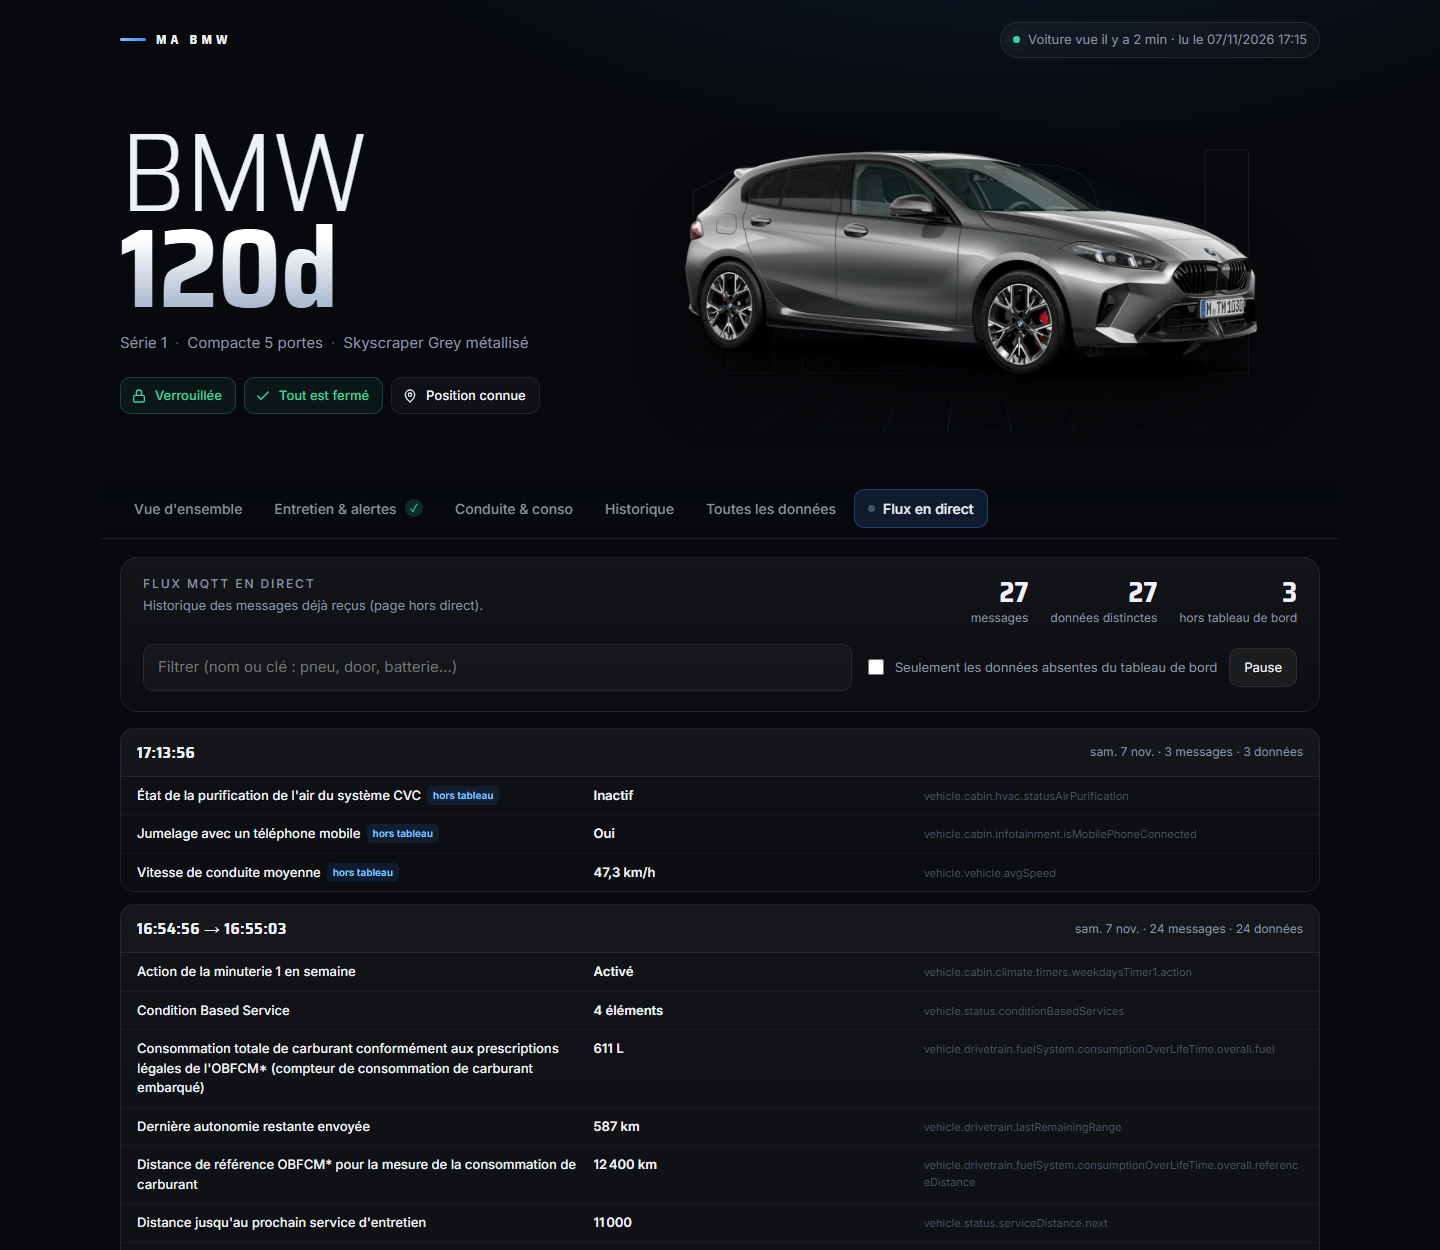
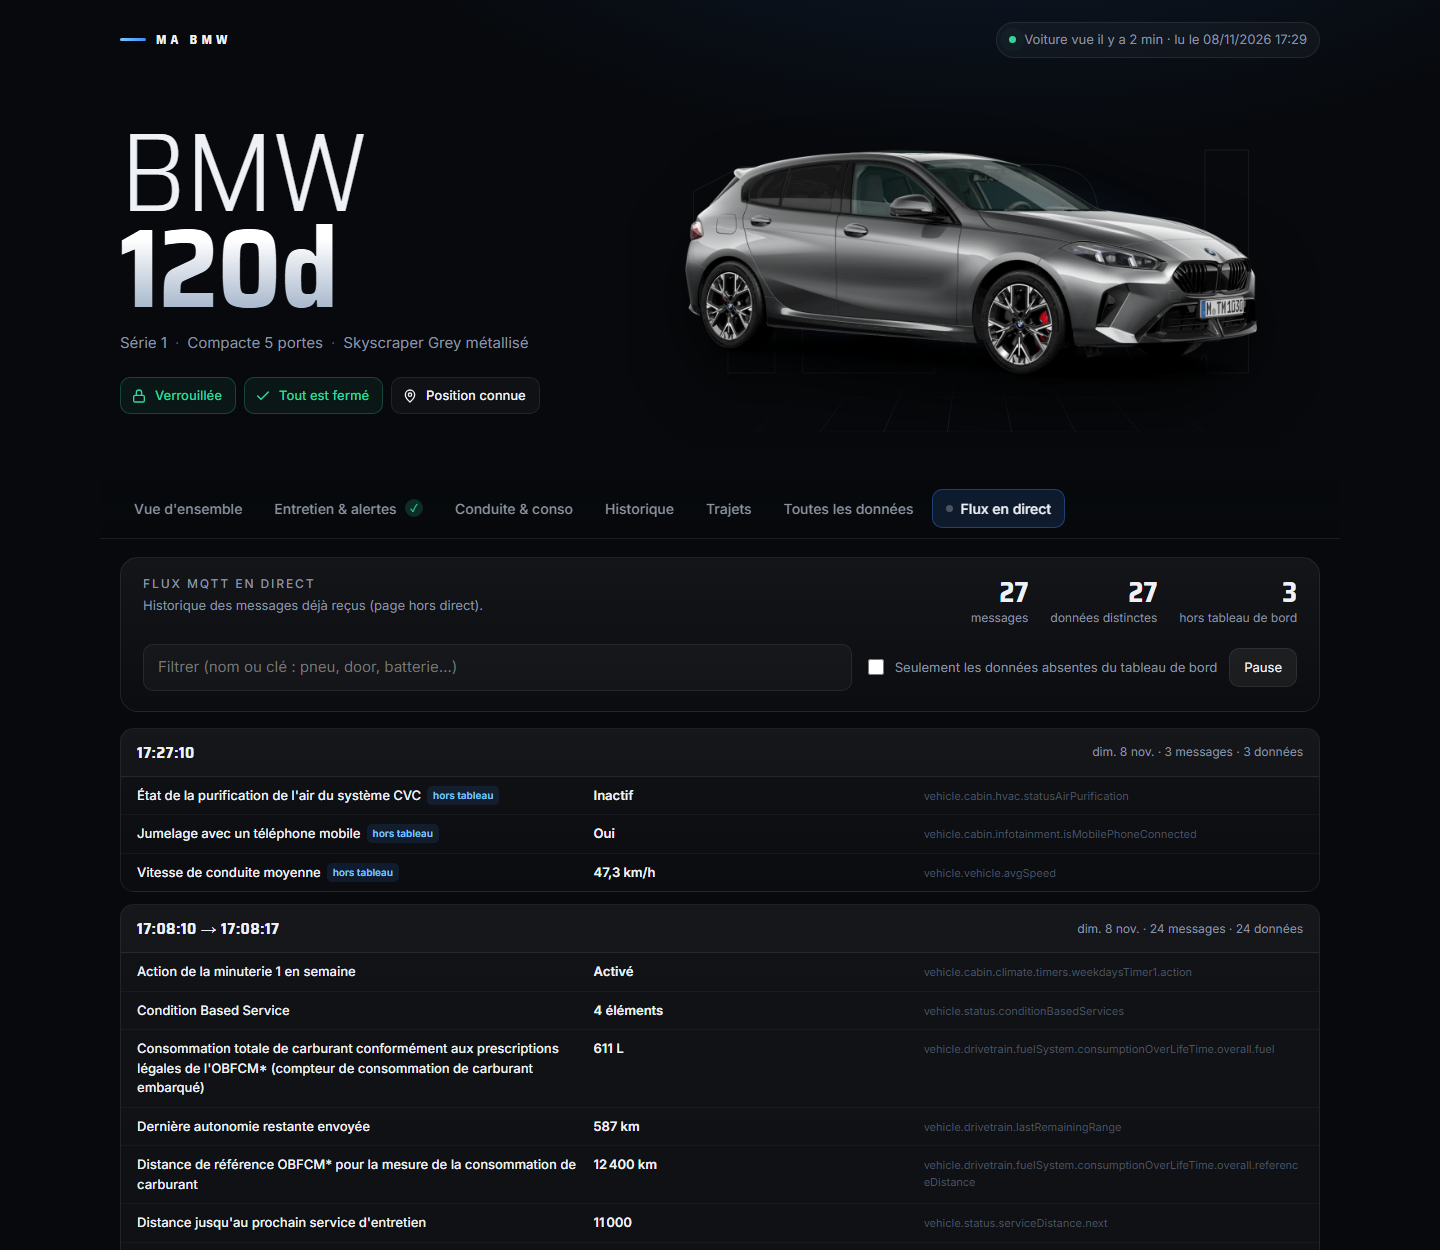
Onglet Trajets : les trajets reconstitués sur une carte
- build_trips() découpe l'historique des positions en trajets : la
  voiture envoie sa position environ toutes les 3 minutes en roulant ;
  un trajet se termine après 5 minutes sans mouvement ; km lus au
  compteur ; manœuvres de moins de 300 m ignorées.
- Nouvel onglet : liste par jour (horaires, km, durée) et carte Leaflet
  des tracés ; un clic met un trajet en évidence avec départ et arrivée.
- Leaflet chargé une seule fois pour les deux cartes de la page.
- Démo : trajets fictifs autour de Munich, nouvelle capture trajets.png.
- README : onglet, capture, description.

diff --git a/dashboard_template.html b/dashboard_template.html
@@ -159,6 +159,24 @@ body {
   background: linear-gradient(180deg, rgba(7,9,12,.85), transparent 28%, transparent 70%, rgba(7,9,12,.9)); }
 .map .lmap { position: absolute; inset: 0; z-index: 0; background: #0b0f15; font: inherit; }
 .map .leaflet-top.leaflet-right { top: 50%; transform: translateY(-50%); }
+/* onglet Trajets */
+.trips-card { display: grid; grid-template-columns: 320px 1fr; gap: 18px; padding: 18px; }
+.trips-list { display: flex; flex-direction: column; min-height: 0; max-height: 620px; }
+#tripsList { overflow: auto; margin: 0 -6px; padding: 0 6px; }
+.trips-map { min-height: 620px; border-radius: 12px; overflow: hidden; }
+.trips-map::after { display: none; }
+.trips-map .leaflet-top.leaflet-right { top: 0; transform: none; }
+.trip-day { color: var(--muted); font-size: 11px; font-weight: 600; letter-spacing: .12em; text-transform: uppercase; margin: 14px 0 4px; }
+.trip { display: grid; grid-template-columns: 1fr auto; gap: 2px 10px; width: 100%; text-align: left; padding: 9px 10px; margin: 2px 0;
+  border: 1px solid transparent; border-radius: 10px; background: none; color: var(--text); font: inherit; font-size: 13.5px; cursor: pointer; }
+.trip:hover { background: rgba(255,255,255,.04); }
+.trip[aria-selected="true"] { background: rgba(61,139,255,.12); border-color: rgba(61,139,255,.45); }
+.trip .km { font-weight: 600; }
+.trip .sub { grid-column: 1 / -1; color: var(--muted); font-size: 12px; }
+.trip-end { width: 14px; height: 14px; box-sizing: border-box; border-radius: 50%; border: 3px solid #fff; }
+.trip-end.a { background: var(--ok); } .trip-end.b { background: var(--bad); }
+.trips-empty { position: absolute; inset: 0; display: grid; place-items: center; padding: 24px; text-align: center; color: var(--muted); }
+@media (max-width: 900px) { .trips-card { grid-template-columns: 1fr; } .trips-list { max-height: 340px; } .trips-map { min-height: 420px; } }
 .map .leaflet-bar { border: 1px solid rgba(255,255,255,.12) !important; border-radius: 10px; overflow: hidden; box-shadow: none !important; }
 .map .leaflet-bar a { background: rgba(14,18,24,.85); color: #dfe6ef; border-bottom-color: rgba(255,255,255,.1); }
 .map .leaflet-bar a:hover { background: rgba(30,38,50,.95); color: #fff; }
@@ -386,6 +404,7 @@ footer { color: var(--faint); font-size: 12px; text-align: center; padding: 34px
     <a href="#entretien" data-p="entretien">Entretien &amp; alertes <span class="badge" id="alertBadge" hidden></span></a>
     <a href="#conduite" data-p="conduite">Conduite &amp; conso</a>
     <a href="#historique" data-p="historique">Historique</a>
+    <a href="#trajets" data-p="trajets">Trajets</a>
     <a href="#donnees" data-p="donnees">Toutes les données</a>
     <a href="#flux" data-p="flux"><span class="live-dot" id="fluxDot"></span>Flux en direct <span class="badge" id="fluxBadge" hidden></span></a>
   </nav>
@@ -516,6 +535,17 @@ footer { color: var(--faint); font-size: 12px; text-align: center; padding: 34px
       </div>
     </article></div>
     <div class="grid g-2" id="histoGrid"></div>
+  </section>
+
+  <section class="panel" id="p-trajets">
+    <div class="grid"><article class="card trips-card">
+      <div class="trips-list">
+        <h2 style="margin-bottom:6px">Trajets</h2>
+        <div class="hint" id="tripsHint" style="margin:0 0 10px"></div>
+        <div id="tripsList" role="listbox" aria-label="Trajets"></div>
+      </div>
+      <div class="map trips-map" id="tripsMap"></div>
+    </article></div>
   </section>
 
   <section class="panel" id="p-donnees">
@@ -829,6 +859,21 @@ function countUp(el, to, dur) {
   ageTag($("bodyAge"), "vehicle.cabin.door.lock.status");
 })();
 
+/* Leaflet, chargé une seule fois pour toutes les cartes de la page */
+let leafletPromise = null;
+function loadLeaflet() {
+  return leafletPromise || (leafletPromise = new Promise((ok, ko) => {
+    const css = document.createElement("link");
+    css.rel = "stylesheet"; css.href = "https://unpkg.com/leaflet@1.9.4/dist/leaflet.css";
+    css.integrity = "sha256-p4NxAoJBhIIN+hmNHrzRCf9tD/miZyoHS5obTRR9BMY="; css.crossOrigin = "";
+    const js = document.createElement("script");
+    js.src = "https://unpkg.com/leaflet@1.9.4/dist/leaflet.js";
+    js.integrity = "sha256-20nQCchB9co0qIjJZRGuk2/Z9VM+kNiyxNV1lvTlZBo="; js.crossOrigin = "";
+    js.onload = () => ok(window.L); js.onerror = ko;
+    document.head.append(css, js);
+  }));
+}
+
 /* ---------------- carte ---------------- */
 (() => {
   const lat = num(LAT), lon = num(LON);
@@ -867,17 +912,7 @@ function countUp(el, to, dur) {
     new ResizeObserver(() => map.invalidateSize()).observe($("map"));
   };
   if (location.protocol === "file:") { fallback(); }
-  else {
-  const css = document.createElement("link");
-  css.rel = "stylesheet"; css.href = "https://unpkg.com/leaflet@1.9.4/dist/leaflet.css";
-  css.integrity = "sha256-p4NxAoJBhIIN+hmNHrzRCf9tD/miZyoHS5obTRR9BMY="; css.crossOrigin = "";
-  const js = document.createElement("script");
-  js.src = "https://unpkg.com/leaflet@1.9.4/dist/leaflet.js";
-  js.integrity = "sha256-20nQCchB9co0qIjJZRGuk2/Z9VM+kNiyxNV1lvTlZBo="; js.crossOrigin = "";
-  js.onload = () => { try { draw(); } catch (e) { fallback(); } };
-  js.onerror = fallback;
-  document.head.append(css, js);
-  }
+  else loadLeaflet().then(() => { try { draw(); } catch (e) { fallback(); } }, fallback);
   $("coords").textContent = `${lat.toFixed(5)}° N · ${lon.toFixed(5)}° E`;
   $("osmLink").href = `https://www.openstreetmap.org/?mlat=${lat}&mlon=${lon}#map=17/${lat}/${lon}`;
   $("gmapsLink").href = `https://www.google.com/maps/dir/?api=1&destination=${lat},${lon}`;
@@ -1695,9 +1730,77 @@ function fluxValue(k, e) {
   let rt; addEventListener("resize", () => { clearTimeout(rt); rt = setTimeout(drawAll, 120); });
 })();
 
+/* ================= trajets ================= */
+(() => {
+  const trips = (DATA.trips || []).slice().reverse();  // le plus récent en premier
+  const list = $("tripsList"), box = $("tripsMap");
+  const hour = d => d.toLocaleTimeString("fr-FR", { hour: "2-digit", minute: "2-digit" });
+  const dur = (a, b) => { const m = Math.max(1, Math.round((b - a) / 60000)); return m < 60 ? `${m} min` : `${Math.floor(m / 60)} h ${String(m % 60).padStart(2, "0")}`; };
+  trips.forEach(t => { t.a = new Date(t.start); t.b = new Date(t.end); });
+  if (!trips.length) {
+    $("tripsHint").textContent = "Aucun trajet enregistré pour l'instant.";
+    box.innerHTML = '<div class="trips-empty">Les trajets apparaîtront ici dès que la voiture aura roulé avec le flux en direct actif (commande stream).</div>';
+    window.drawTrips = () => {};
+    return;
+  }
+  const total = trips.reduce((s, t) => s + (t.km || 0), 0);
+  const first = trips[trips.length - 1].a;
+  $("tripsHint").textContent = `${fmt(trips.length)} trajet${trips.length > 1 ? "s" : ""} · ${fmt(total)} km depuis le ${first.toLocaleDateString("fr-FR", { day: "numeric", month: "long" })}. Tracé approximatif : la voiture envoie sa position environ toutes les 3 minutes.`;
+  let html = `<button type="button" class="trip" role="option" data-i="-1" aria-selected="true"><span>Tous les trajets</span><span class="km">${fmt(total)} km</span></button>`, day = "";
+  trips.forEach((t, i) => {
+    const d = t.a.toLocaleDateString("fr-FR", { weekday: "long", day: "numeric", month: "long" });
+    if (d !== day) { html += `<div class="trip-day">${esc(d)}</div>`; day = d; }
+    html += `<button type="button" class="trip" role="option" data-i="${i}" aria-selected="false"><span>${hour(t.a)} → ${hour(t.b)}</span><span class="km">${fmt(t.km)} km</span><span class="sub">${dur(t.a, t.b)}</span></button>`;
+  });
+  list.innerHTML = html;
+
+  let map = null, lines = [], ends = null, sel = -1;
+  const select = i => {
+    sel = i;
+    list.querySelectorAll(".trip").forEach(b => b.setAttribute("aria-selected", String(+b.dataset.i === i)));
+    if (!map) return;
+    const L = window.L;
+    lines.forEach((l, j) => l.setStyle(i < 0 ? { color: "#3d8bff", opacity: .75, weight: 3 }
+      : j === i ? { color: "#3d8bff", opacity: 1, weight: 5 } : { color: "#8a94a3", opacity: .25, weight: 2 }));
+    if (ends) { ends.remove(); ends = null; }
+    if (i >= 0) {
+      lines[i].bringToFront();
+      const p = trips[i].pts;
+      ends = L.layerGroup([
+        L.marker(p[0], { icon: L.divIcon({ className: "trip-end a", iconSize: [14, 14] }), title: `Départ ${hour(trips[i].a)}`, keyboard: false }),
+        L.marker(p[p.length - 1], { icon: L.divIcon({ className: "trip-end b", iconSize: [14, 14] }), title: `Arrivée ${hour(trips[i].b)}`, keyboard: false }),
+      ]).addTo(map);
+      map.fitBounds(lines[i].getBounds(), { padding: [40, 40], maxZoom: 16 });
+    } else map.fitBounds(L.featureGroup(lines).getBounds(), { padding: [30, 30], maxZoom: 15 });
+  };
+  list.addEventListener("click", e => { const b = e.target.closest(".trip"); if (b) select(+b.dataset.i); });
+
+  const draw = L => {
+    box.innerHTML = '<div class="lmap" role="region" aria-label="Carte des trajets"></div>';
+    map = L.map(box.firstChild, { zoomControl: false, attributionControl: false });
+    L.tileLayer("https://tile.openstreetmap.org/{z}/{x}/{y}.png", { maxZoom: 19 }).addTo(map);
+    L.control.zoom({ position: "topright", zoomInTitle: "Zoom avant", zoomOutTitle: "Zoom arrière" }).addTo(map);
+    L.control.attribution({ position: "bottomright", prefix: false })
+      .addAttribution('© <a href="https://www.openstreetmap.org/copyright" target="_blank" rel="noopener">OpenStreetMap</a>').addTo(map);
+    lines = trips.map((t, i) => L.polyline(t.pts, { lineJoin: "round" }).on("click", () => select(i)).addTo(map));
+    new ResizeObserver(() => map.invalidateSize()).observe(box);
+    select(sel);
+  };
+  let started = false;
+  window.drawTrips = () => {  // la carte n'est créée qu'à l'ouverture de l'onglet (elle doit être visible)
+    if (started) { if (map) map.invalidateSize(); return; }
+    started = true;
+    if (location.protocol === "file:") {
+      box.innerHTML = '<div class="trips-empty">La carte des trajets s\'affiche sur la page servie par la commande stream (OpenStreetMap refuse ses fonds de carte à une page ouverte comme fichier).</div>';
+      return;
+    }
+    loadLeaflet().then(draw, () => { box.innerHTML = '<div class="trips-empty">Impossible de charger la carte (pas d\'accès à Internet ?).</div>'; });
+  };
+})();
+
 /* ================= navigation par onglets ================= */
 (() => {
-  const ids = ["apercu", "entretien", "conduite", "historique", "donnees", "flux"];
+  const ids = ["apercu", "entretien", "conduite", "historique", "trajets", "donnees", "flux"];
   let current = null;
   const show = () => {
     const id = ids.includes(location.hash.slice(1)) ? location.hash.slice(1) : "apercu";
@@ -1711,6 +1814,7 @@ function fluxValue(k, e) {
     if (id === "apercu" && current && current !== "apercu") replayOverview();
     if (id === "flux") { const b = $("fluxBadge"); b.hidden = true; b.textContent = ""; window.__fluxUnseen = 0; }
     if (id === "historique" && window.drawHistory) window.drawHistory();
+    if (id === "trajets" && window.drawTrips) window.drawTrips();
     current = id;
   };
   window.addEventListener("hashchange", () => { show(); const t = $("tabs"); if (t.getBoundingClientRect().top < 0 || scrollY > t.offsetTop) scrollTo({ top: t.offsetTop, behavior: "smooth" }); });

diff --git a/bmw_cardata.py b/bmw_cardata.py
@@ -19,8 +19,10 @@ Une commande "status" coûte 1 appel (jusqu'à 3 quand la liste des données cha
 """
 
 import base64
+import bisect
 import hashlib
 import json
+import math
 import os
 import re
 import secrets
@@ -680,6 +682,81 @@ def save_history(data, source, received=None):
         print(f"Base {HISTORY_DB.name} : écriture impossible ({e}).")
 
 
+TRIPS_MAX = 300           # trajets gardés dans la page (les plus récents)
+TRIP_STOP_S = 300         # immobile plus de 5 min : le trajet est terminé
+TRIP_MOVE_KM = 0.1        # déplacement minimal entre deux positions pour compter comme « roule »
+
+
+def _km(a, b):
+    """Distance approchée (km) entre deux points (lat, lon) proches."""
+    x = math.radians(b[1] - a[1]) * math.cos(math.radians((a[0] + b[0]) / 2))
+    y = math.radians(b[0] - a[0])
+    return 6371 * math.hypot(x, y)
+
+
+def build_trips(telematic):
+    """Découpe l'historique des positions en trajets. Pendant la conduite, la voiture envoie sa
+    position environ toutes les 3 minutes : un trajet est donc une suite de points reliés en ligne
+    droite, pas le tracé exact de la route. Renvoie [{start, end, km, pts: [[lat, lon], ...]}]."""
+    lat_k = "vehicle.cabin.infotainment.navigation.currentLocation.latitude"
+    lon_k = "vehicle.cabin.infotainment.navigation.currentLocation.longitude"
+    odo_k = "vehicle.vehicle.travelledDistance"
+    series = {lat_k: {}, lon_k: {}, odo_k: {}}
+    try:
+        with closing(open_db()) as db:
+            for k, ts, t, v in db.execute("SELECT cle, horodatage, t, valeur FROM mesures WHERE cle IN (?, ?, ?)",
+                                          (lat_k, lon_k, odo_k)):
+                if isinstance(v, (int, float)):
+                    series[k][t] = v
+    except sqlite3.Error as e:
+        print(f"Base {HISTORY_DB.name} : lecture impossible ({e}).")
+        return []
+    for k in series:
+        e = (telematic or {}).get(k)
+        dt = parse_time(e.get("timestamp")) if isinstance(e, dict) else None
+        if dt:
+            try:
+                series[k][dt.timestamp()] = float(e.get("value"))
+            except (TypeError, ValueError):
+                pass
+    odo = sorted(series[odo_k].items())
+    odo_t = [t for t, _ in odo]
+
+    def odo_at(t):  # dernier kilométrage connu à l'instant t
+        i = bisect.bisect_right(odo_t, t)
+        return odo[i - 1][1] if i else None
+
+    pts = [(t, series[lat_k][t], series[lon_k][t]) for t in sorted(set(series[lat_k]) & set(series[lon_k]))
+           if -90 <= series[lat_k][t] <= 90 and -180 <= series[lon_k][t] <= 180
+           and (series[lat_k][t], series[lon_k][t]) != (0, 0)]
+    trips, cur, last_move = [], None, None
+
+    def close():
+        if cur and (cur["dist"] >= 0.3 or (cur["km1"] or 0) - (cur["km0"] or 0) >= 1):
+            trips.append(cur)
+
+    for i in range(1, len(pts)):
+        (t0, a0, b0), (t1, a1, b1) = pts[i - 1], pts[i]
+        o0, o1 = odo_at(t0), odo_at(t1)
+        moved = _km((a0, b0), (a1, b1)) > TRIP_MOVE_KM or (o0 is not None and o1 is not None and o1 > o0)
+        if cur and last_move is not None and t1 - last_move > TRIP_STOP_S and (not moved or t1 - last_move > 1800):
+            close()
+            cur = None
+        if moved:
+            if cur is None:
+                cur = {"t0": t0, "pts": [(a0, b0)], "dist": 0.0, "km0": o0}
+            cur["dist"] += _km(cur["pts"][-1], (a1, b1))
+            cur["pts"].append((a1, b1))
+            cur["t1"], cur["km1"] = t1, o1
+            last_move = t1
+    close()
+    iso = lambda t: datetime.fromtimestamp(t, timezone.utc).isoformat()
+    out = [{"start": iso(tr["t0"]), "end": iso(tr["t1"]),
+            "km": round(tr["km1"] - tr["km0"]) if tr["km0"] is not None and tr["km1"] is not None else round(tr["dist"]),
+            "pts": [[round(a, 5), round(b, 5)] for a, b in tr["pts"]]} for tr in trips]
+    return out[-TRIPS_MAX:]
+
+
 REFUEL_MIN_RISE = 10  # hausse du niveau (points de %) qui signale un plein
 
 
@@ -810,6 +887,7 @@ def render_dashboard(vin, telematic, fetched_at, fetched_iso=None, live=False, p
         "catalogue": {k: v.get("name") for k, v in (load_json(CATALOGUE_FILE, {}) or {}).items()},
         "streamLog": list(LiveState.log)[-STREAM_LOG_IN_PAGE:] if live else read_stream_history(),
         "history": build_history(telematic),
+        "trips": build_trips(telematic),
         "sinceRefuel": since_refuel(telematic, (load_json(CONFIG_FILE, {}) or {}).get("tank_liters")),
         "live": live,
     }

diff --git a/outils/captures_demo.py b/outils/captures_demo.py
@@ -15,7 +15,7 @@ PROJ = Path(__file__).resolve().parent.parent
 OUT = PROJ / "demo"
 CAPTURES = PROJ / "docs" / "captures"
 # onglet → hauteur de la capture (largeur 1440 px)
-SHOTS = {"apercu": 845, "entretien": 1180, "conduite": 1100, "historique": 1960, "flux": 1250}
+SHOTS = {"apercu": 845, "entretien": 1180, "conduite": 1100, "historique": 1960, "trajets": 1240, "flux": 1250}
 EDGE = [Path(r"C:\Program Files (x86)\Microsoft\Edge\Application\msedge.exe"),
         Path(r"C:\Program Files\Microsoft\Edge\Application\msedge.exe")]
 
@@ -137,6 +137,32 @@ def build_page():
                  "vehicle.cabin.hvac.statusAirPurification": e("INACTIVE")}
         for k, v in extra.items():
             f.write(json.dumps({"received": (now - timedelta(minutes=2)).isoformat(), "data": {k: v}}) + "\n")
+
+    # ---- trajets fictifs autour de Munich (onglet Trajets), un point toutes les 3 min environ ----
+    home = (48.17680, 11.55600)
+    places = [(48.13740, 11.57550), (48.15050, 11.59170), (48.21800, 11.62400), (48.13300, 11.50400),
+              (48.10600, 11.55900), (48.24900, 11.65200), (48.16350, 11.49500)]
+    trips, day = [], now - timedelta(days=9)
+    for n in range(14):
+        dest = places[n % len(places)]
+        start = (day + timedelta(days=n // 2 + 1)).replace(hour=8 if n % 2 == 0 else 17, minute=random.randint(0, 50))
+        a, b_ = (home, dest) if n % 2 == 0 else (dest, home)
+        # chemin sinueux : points intermédiaires décalés de part et d'autre de la ligne droite
+        dx, dy = b_[0] - a[0], b_[1] - a[1]
+        path, pts = [a], []
+        for f in (.2, .4, .6, .8):
+            off = random.uniform(-.12, .12)
+            path.append((a[0] + dx * f - dy * off * .66, a[1] + dy * f + dx * off * 1.5))
+        path.append(b_)
+        for p, q in zip(path, path[1:]):
+            steps = max(1, int(b._km(p, q) / 1.8))
+            pts += [(p[0] + (q[0] - p[0]) * s / steps + random.uniform(-.0008, .0008),
+                     p[1] + (q[1] - p[1]) * s / steps + random.uniform(-.0008, .0008)) for s in range(steps)]
+        pts += [b_]
+        km = sum(b._km(p, q) for p, q in zip(pts, pts[1:])) * 1.15
+        trips.append({"start": iso(start), "end": iso(start + timedelta(minutes=3 * len(pts))), "km": round(km),
+                      "pts": [[round(x, 5), round(y, 5)] for x, y in pts]})
+    b.build_trips = lambda telematic: trips
 
     page = OUT / "demo.html"
     b.render_dashboard("WBA00000000DEMO00", T, now.astimezone().strftime("%d/%m/%Y %H:%M"), iso(now), path=page)

diff --git a/README.md b/README.md
@@ -80,7 +80,7 @@ Chaque valeur reçue est rangée dans `historique.db`, que vous pouvez interroge
 <td width="50%" valign="top">
 
 ### 🖥 Tableau de bord élégant
-Thème sombre, jauge animée, compteur à rouleaux, vue de dessus de la voiture, carte, graphiques d'historique, six onglets. Fonctionne aussi sur téléphone.
+Thème sombre, jauge animée, compteur à rouleaux, vue de dessus de la voiture, carte, graphiques d'historique, carte des trajets, sept onglets. Fonctionne aussi sur téléphone.
 
 ### 🔎 Flux brut consultable
 Un onglet affiche **chaque message MQTT reçu**, avec les noms officiels BMW en français, même pour les données que le tableau de bord n'affiche pas.
@@ -112,6 +112,12 @@ Un seul script Python, sans dépendance externe pour l'usage courant. Seul le st
 **Historique**
 
 <img src="docs/captures/historique.png" alt="Onglet Historique : graphiques du carburant, de l'autonomie, des kilomètres par jour, du kilométrage, des pneus et de la batterie 12 V" width="100%">
+
+<br><br>
+
+**Trajets**
+
+<img src="docs/captures/trajets.png" alt="Onglet Trajets : liste des trajets par jour et carte de leurs tracés" width="100%">
 
 <br><br>
 
@@ -302,6 +308,7 @@ Avec `-AvecDonnees`, les données déjà présentes sur le serveur sont mises de
 | **Entretien & alertes** | Voyants Check Control, entretien détaillé (huile, liquide de frein…), échéances, batteries, alarme, mémoire des défauts |
 | **Conduite & conso** | Consommation moyenne réelle (compteur officiel OBFCM), [consommation depuis le dernier plein](#conso-plein) (estimée), habitudes de conduite, cap et altitude, moteur, navigation, programmateurs de clim |
 | **Historique** | Graphiques sur 7, 30 ou 90 jours : carburant, autonomie, kilomètres par jour, kilométrage, pression des pneus, batterie 12 V. Valeurs au survol, et tableau des valeurs sous chaque graphique |
+| **Trajets** | Les trajets reconstitués à partir des positions enregistrées, classés par jour (horaires, kilomètres, durée), et leur tracé sur une carte. Un clic sur un trajet le met en évidence, avec son départ et son arrivée. Pendant la conduite, la voiture envoie sa position environ toutes les 3 minutes : le tracé relie ces points en ligne droite et ne suit pas exactement la route. Un trajet se termine quand la voiture reste immobile plus de 5 minutes. La carte s'affiche sur la page servie par `stream` |
 | **Toutes les données** | La liste complète des valeurs connues, avec une recherche. Un clic sur une ligne déplie **toutes ses valeurs passées**, lues dans la [base](#base-historique) : une ligne par changement, les valeurs identiques qui se suivent étant regroupées (page en direct seulement ; une page ouverte comme fichier ne montre que les courbes de l'onglet Historique) |
 | **Flux en direct** | Chaque message MQTT reçu, regroupé par rafale, avec filtre, pause et repérage des données « hors tableau » |
 
